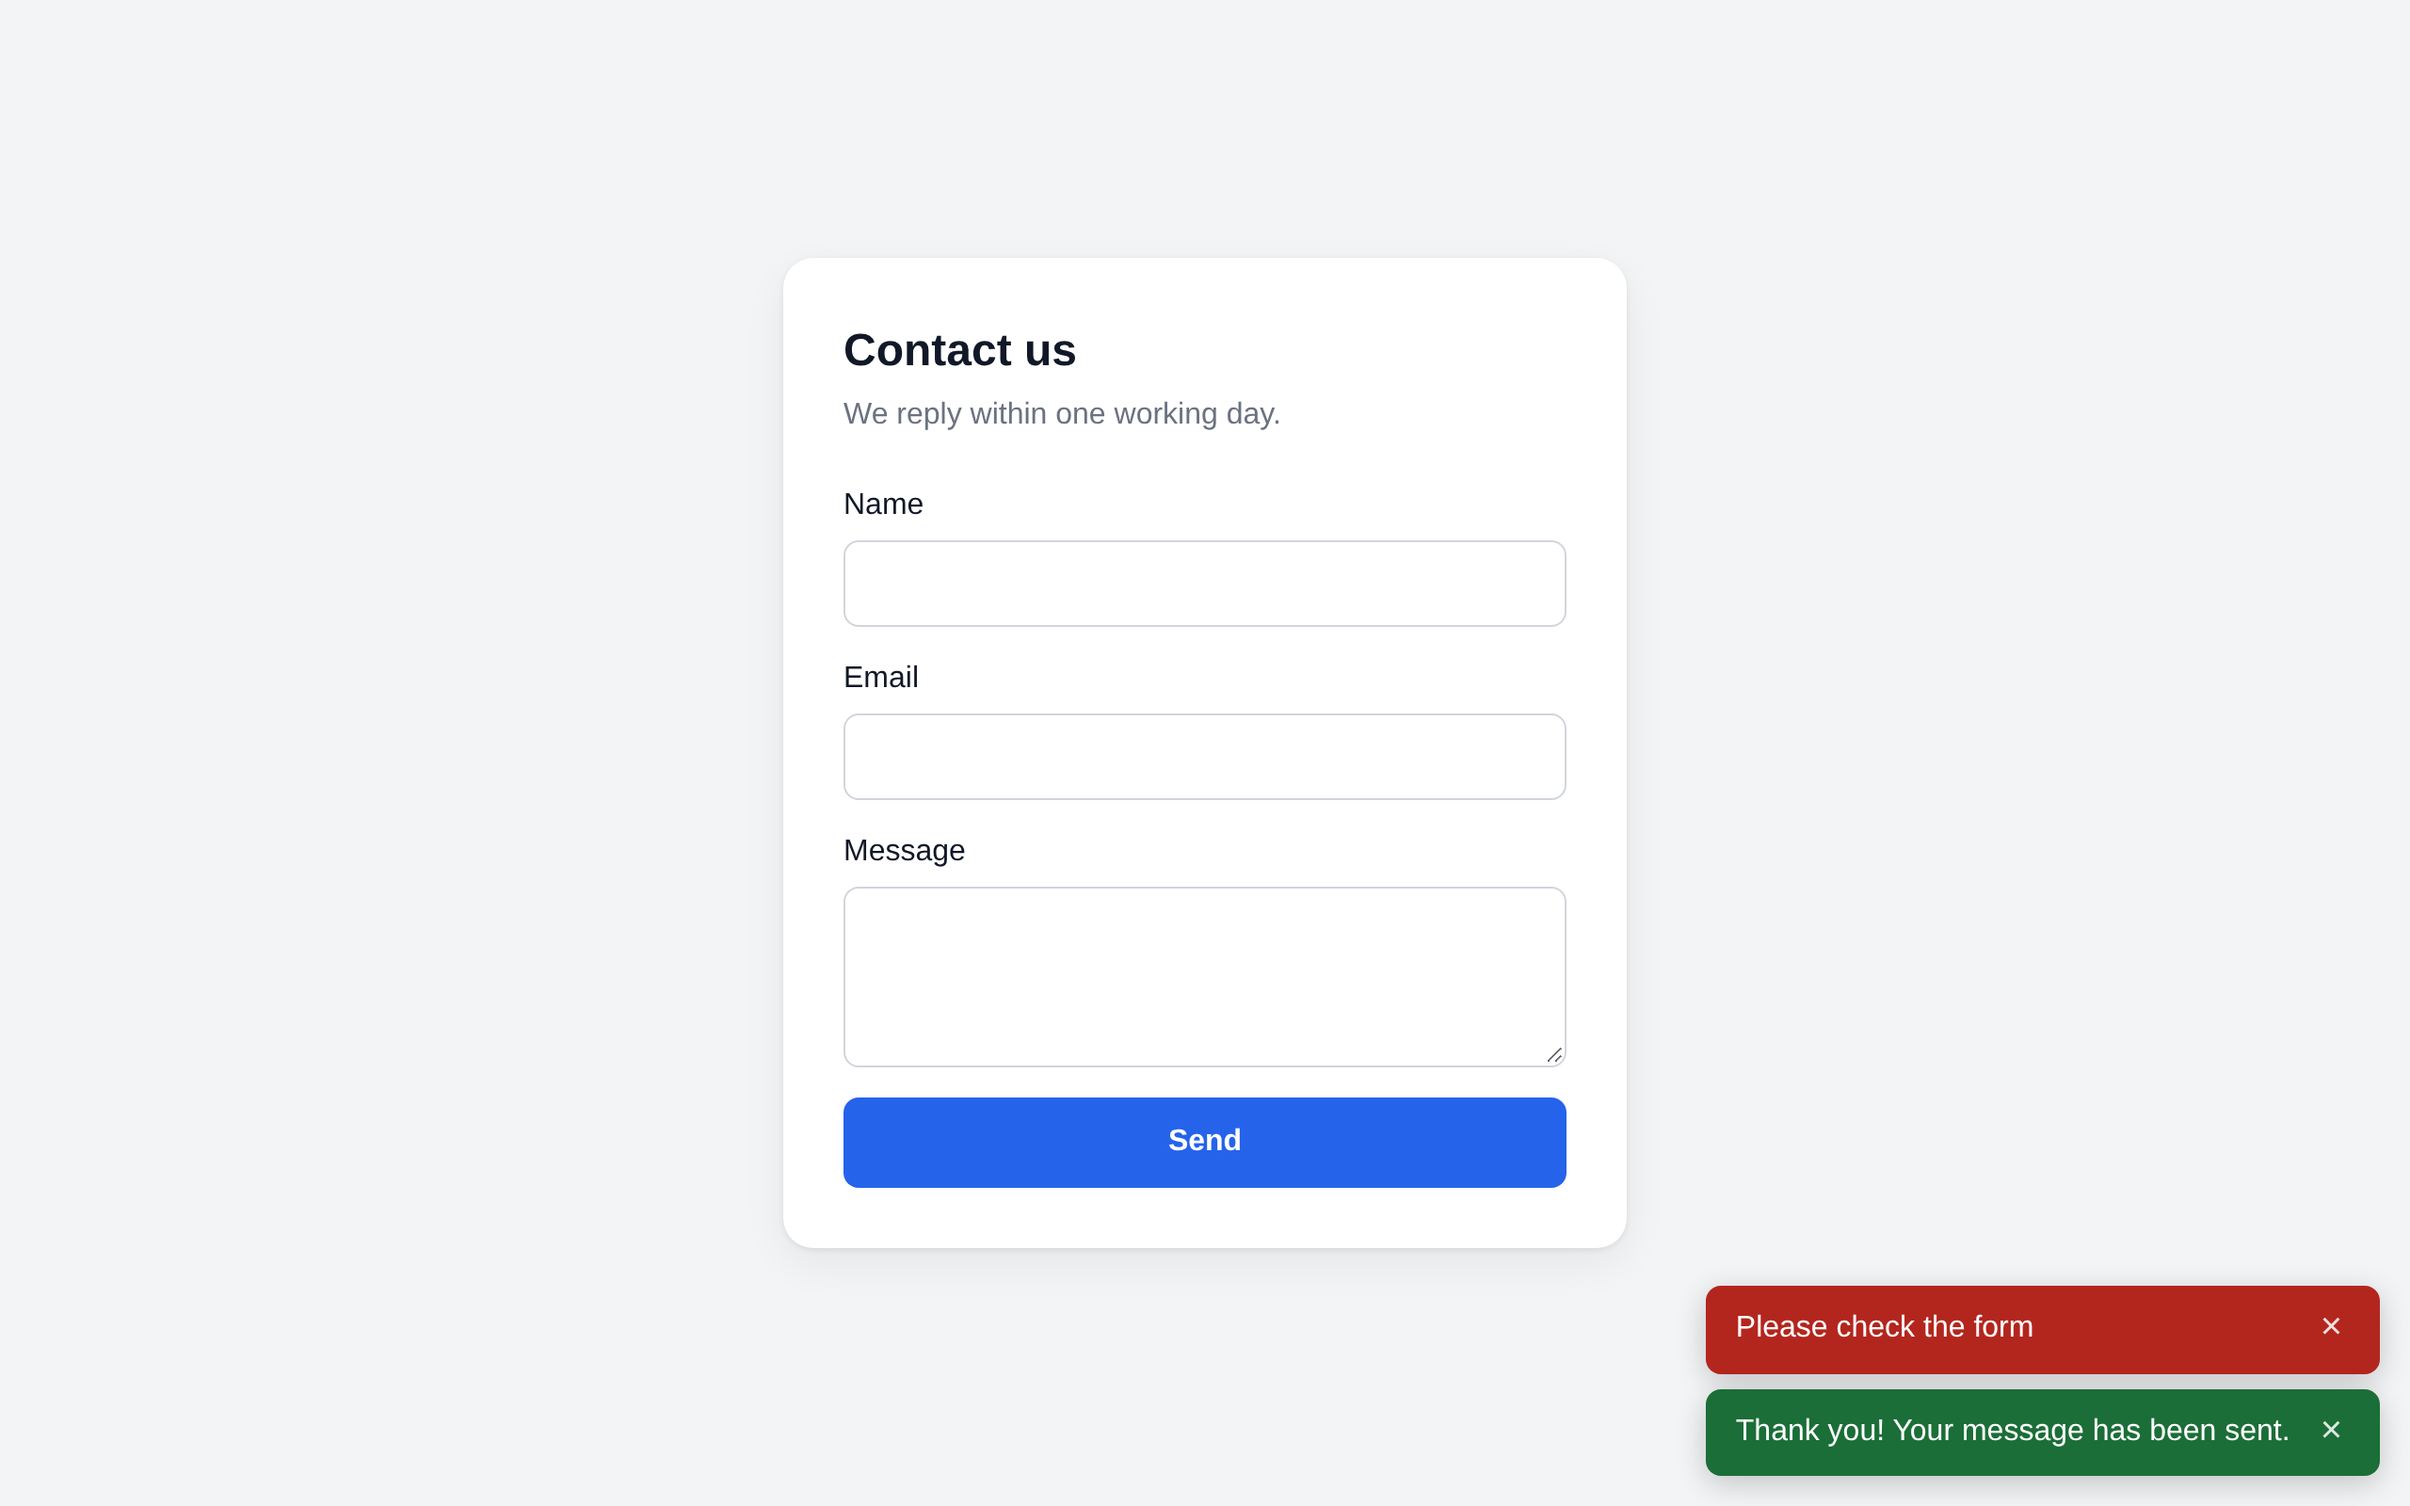
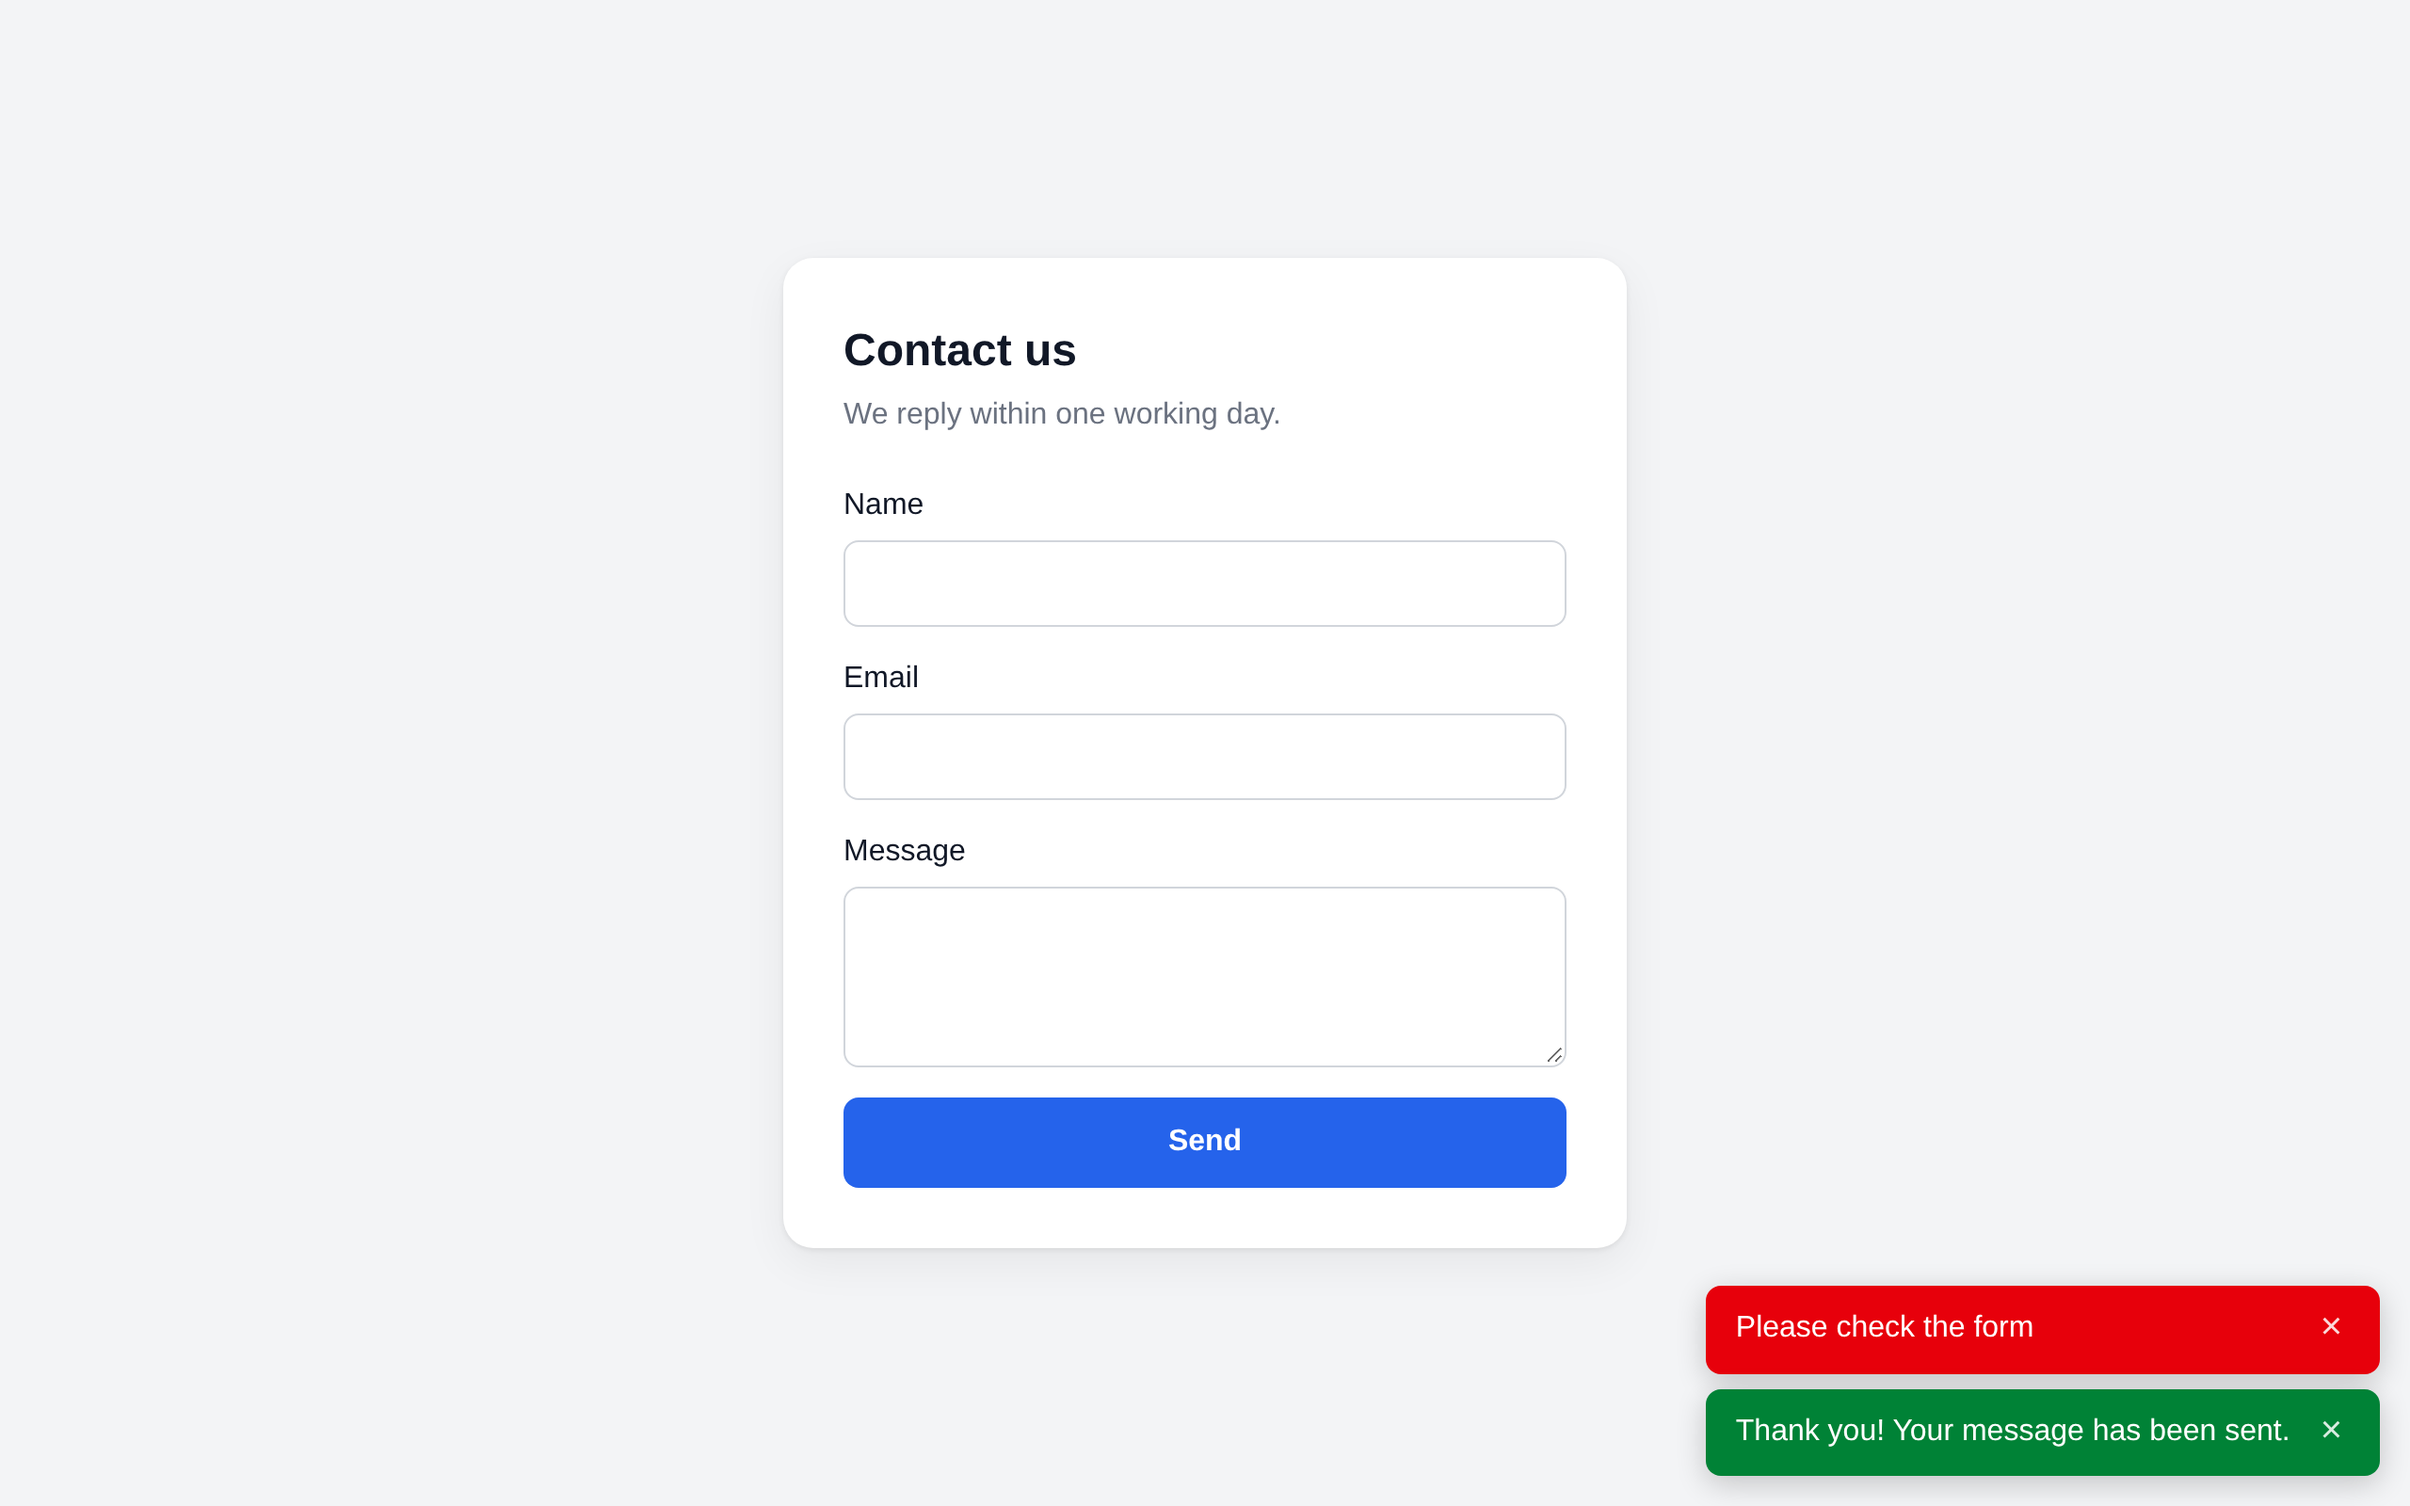
feat(notifier): Take the toast colours from Tailwind CSS 4

Changed region(s): [[0.6875, 0.8438, 1.0, 1.0]]

diff --git a/src/notifier.ts b/src/notifier.ts
@@ -7,7 +7,9 @@
 // bare elements (button { ... }) and lose to any class rule of the site that
 // comes later. Rules inside @layer (Tailwind 4) lose to them; the colours
 // are CSS variables for that: --fetchit-toast-color, --fetchit-toast-success,
-// --fetchit-toast-error.
+// --fetchit-toast-error. By default they are the colours of Tailwind CSS 4
+// with enough contrast for white text: green-700 and red-600, in oklch()
+// where the browser knows it and in hex elsewhere.
 //
 // Screen readers hear a toast through two live regions that exist, empty,
 // from the start, since a region added together with its text is often not
@@ -35,11 +37,15 @@ const CSS = `
 }
 .fetchit-toast {
   display: flex; align-items: flex-start; gap: .75rem; margin: 0; padding: .75rem 1rem; border-radius: .5rem;
-  color: var(--fetchit-toast-color, #fff); background: var(--fetchit-toast-success, #1b6e37);
+  color: var(--fetchit-toast-color, #fff); background: var(--fetchit-toast-success, #008236);
   box-shadow: 0 .25rem 1rem rgb(0 0 0 / .2); line-height: 1.4; pointer-events: auto;
   animation: fetchit-toast-in .2s ease-out;
 }
-.fetchit-toast:where([data-type="error"]) { background: var(--fetchit-toast-error, #b3261e); }
+.fetchit-toast:where([data-type="error"]) { background: var(--fetchit-toast-error, #e7000b); }
+@supports (color: oklch(0% 0 0)) {
+  .fetchit-toast { background: var(--fetchit-toast-success, oklch(52.7% 0.154 150.069)); }
+  .fetchit-toast:where([data-type="error"]) { background: var(--fetchit-toast-error, oklch(57.7% 0.245 27.325)); }
+}
 .fetchit-toast__text { flex: 1; overflow-wrap: anywhere; }
 .fetchit-toast__close {
   flex: none; margin: 0; padding: 0 .25rem; border: 0; border-radius: .25rem; background: none; box-shadow: none;

diff --git a/assets/components/fetchit/js/fetchit.js b/assets/components/fetchit/js/fetchit.js
@@ -194,11 +194,15 @@
 }
 .fetchit-toast {
   display: flex; align-items: flex-start; gap: .75rem; margin: 0; padding: .75rem 1rem; border-radius: .5rem;
-  color: var(--fetchit-toast-color, #fff); background: var(--fetchit-toast-success, #1b6e37);
+  color: var(--fetchit-toast-color, #fff); background: var(--fetchit-toast-success, #008236);
   box-shadow: 0 .25rem 1rem rgb(0 0 0 / .2); line-height: 1.4; pointer-events: auto;
   animation: fetchit-toast-in .2s ease-out;
 }
-.fetchit-toast:where([data-type="error"]) { background: var(--fetchit-toast-error, #b3261e); }
+.fetchit-toast:where([data-type="error"]) { background: var(--fetchit-toast-error, #e7000b); }
+@supports (color: oklch(0% 0 0)) {
+  .fetchit-toast { background: var(--fetchit-toast-success, oklch(52.7% 0.154 150.069)); }
+  .fetchit-toast:where([data-type="error"]) { background: var(--fetchit-toast-error, oklch(57.7% 0.245 27.325)); }
+}
 .fetchit-toast__text { flex: 1; overflow-wrap: anywhere; }
 .fetchit-toast__close {
   flex: none; margin: 0; padding: 0 .25rem; border: 0; border-radius: .25rem; background: none; box-shadow: none;

diff --git a/assets/components/fetchit/js/fetchit.min.js b/assets/components/fetchit/js/fetchit.min.js
@@ -6,11 +6,15 @@
 }
 .fetchit-toast {
   display: flex; align-items: flex-start; gap: .75rem; margin: 0; padding: .75rem 1rem; border-radius: .5rem;
-  color: var(--fetchit-toast-color, #fff); background: var(--fetchit-toast-success, #1b6e37);
+  color: var(--fetchit-toast-color, #fff); background: var(--fetchit-toast-success, #008236);
   box-shadow: 0 .25rem 1rem rgb(0 0 0 / .2); line-height: 1.4; pointer-events: auto;
   animation: fetchit-toast-in .2s ease-out;
 }
-.fetchit-toast:where([data-type="error"]) { background: var(--fetchit-toast-error, #b3261e); }
+.fetchit-toast:where([data-type="error"]) { background: var(--fetchit-toast-error, #e7000b); }
+@supports (color: oklch(0% 0 0)) {
+  .fetchit-toast { background: var(--fetchit-toast-success, oklch(52.7% 0.154 150.069)); }
+  .fetchit-toast:where([data-type="error"]) { background: var(--fetchit-toast-error, oklch(57.7% 0.245 27.325)); }
+}
 .fetchit-toast__text { flex: 1; overflow-wrap: anywhere; }
 .fetchit-toast__close {
   flex: none; margin: 0; padding: 0 .25rem; border: 0; border-radius: .25rem; background: none; box-shadow: none;

diff --git a/tests/js/notifier.test.ts b/tests/js/notifier.test.ts
@@ -97,6 +97,10 @@ describe('the built-in notifier', () => {
     expect(document.head.firstElementChild).toBe(styles[0])
     // One class: stronger than button { ... } of the site, weaker than its classes.
     expect(styles[0]!.textContent).toContain('\n.fetchit-toast__close {')
+    // green-700 and red-600 of Tailwind CSS 4, with hex for browsers without oklch().
+    expect(styles[0]!.textContent).toContain('var(--fetchit-toast-success, #008236)')
+    expect(styles[0]!.textContent).toContain('var(--fetchit-toast-success, oklch(52.7% 0.154 150.069))')
+    expect(styles[0]!.textContent).toContain('var(--fetchit-toast-error, oklch(57.7% 0.245 27.325))')
   })
 
   it('says so when a Content-Security-Policy blocks its styles', () => {
